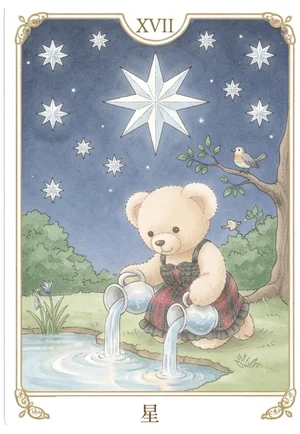
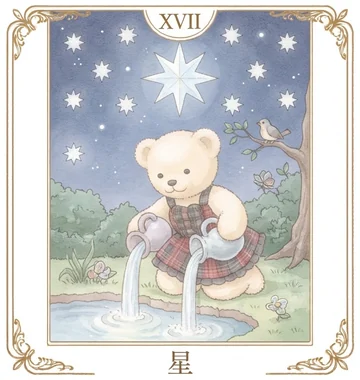
タロットの絵をぬいぐるみ体型の版に差しかえ
Claude-Session: https://claude.ai/code/session_01Sk6Ce5jvgortjCeHoq5cYf

diff --git a/index.html b/index.html
@@ -767,7 +767,7 @@ body.dark .ktChips button{color:#e8dff2;background:rgba(255,255,255,.06)}body.da
 .fAnimTxt{font-size:14px;font-weight:800;margin-top:8px;color:#9a6fd6;min-height:1.5em}
 #fBody.fShow{animation:fIn .6s ease-out}@keyframes fIn{from{opacity:0;transform:translateY(8px)}}
 .fTarot{display:flex;gap:12px;align-items:center;margin:12px 0 4px;padding:10px;border-radius:16px;background:linear-gradient(135deg,#f6efff,#fff0f7)}
-.fCard{flex:0 0 90px;height:130px;perspective:600px}.fCardIn{position:relative;width:100%;height:100%;transition:transform .9s;transform-style:preserve-3d}
+.fCard{flex:0 0 104px;height:110px;perspective:600px}.fCardIn{position:relative;width:100%;height:100%;transition:transform .9s;transform-style:preserve-3d}
 .fCard.flip .fCardIn{transform:rotateY(180deg)}
 .fCardIn>div{position:absolute;inset:0;border-radius:10px;backface-visibility:hidden;-webkit-backface-visibility:hidden;overflow:hidden;box-shadow:0 3px 10px rgba(120,90,180,.3)}
 .fBack{background:repeating-linear-gradient(45deg,#8f74d8 0 8px,#a58cec 8px 16px);border:3px solid #fff;display:flex;align-items:center;justify-content:center;font-size:30px}

diff --git a/sw.js b/sw.js
@@ -1,6 +1,6 @@
 // ゆめいろ手帳（旧ゆめいろ発車ベル）:電波がなくても開けるようにするための仕組み
 // オンラインのときは毎回最新のページを取りに行き、取れなかったときだけ保存しておいたページを使う
-const CACHE="yumebell-v55";
+const CACHE="yumebell-v56";
 self.addEventListener("install",e=>{e.waitUntil(caches.open(CACHE).then(c=>c.addAll(["./","./index.html","./fm-help.js?v=20261127a","./fm.js?v=20261127a","./shift-ocr-parse.js?v=20261127a","./shift-img.js?v=20261127a"])).then(()=>self.skipWaiting()))});
 self.addEventListener("activate",e=>{e.waitUntil(caches.keys().then(ks=>Promise.all(ks.filter(k=>k!==CACHE).map(k=>caches.delete(k)))).then(()=>self.clients.claim()))});
 self.addEventListener("fetch",e=>{

diff --git a/PROGRESS.md b/PROGRESS.md
@@ -551,4 +551,4 @@
 - （追記 2026-11-27 Claude）ver4.7：💾 まるごと書き出し（#allExp/#allImp、localStorage の yumebell* を {app:"yumebell-all",v:1,d} のJSONに。読み込みは確認ののち置きかえ→reload）。sw.js は HTML/JS を「ネット優先・3秒で保存分」に（裏で更新）。jpg 5枚を表示サイズに合わせた webp に。ボタンの押せる範囲（.ktBtn/.seg/.ktChips/.ocChips/.fDay は min-height 42px、リンク風ボタンは ::after で当たり判定だけ広げる）。境目ゲージは今月以降だけ
 - （追記 2026-11-27 Claude）まるごと書き出しは本人の判断で削除（シートに全部そろうので不要）。ver4.7 はなしにして、高速化・押しやすさ・画像は ver4.6 の説明に追記
 - （追記 2026-11-27 Claude）ver4.7：占いに #fGate（その日はじめては「🔮 ファーちゃんに占ってもらう」）→ #fAnim（水晶玉のCSSアニメ3.3秒）→ #fBody。占った日は localStorage yumebell_fopen に日付。おととい・きのうはボタンなし。🃏 タロット：TAROT（大アルカナ22枚・正位置のみ・文はオリジナル）、tarotOf(日付) で1日1枚固定。絵は tarot/00.webp〜21.webp（なければ絵文字）
-- （追記 2026-11-27 Claude）クマちゃんタロット22枚（Geminiで2×2の6枚→切り分け、300×434のwebp、tarot/00〜21）。カード名の文字はそろえるため Noto Serif CJK で入れ直し（塔が「塔 塔」になっていた）。.fCard は 90×130
+- （追記 2026-11-27 Claude）クマちゃんタロット22枚（Geminiで2×2の6枚→切り分け、360×380のwebp。ぬいぐるみ体型で描き直した版、tarot/00〜21）。カード名の文字はそろえるため Noto Serif CJK で入れ直し（塔が「塔 塔」になっていた）。.fCard は 104×110
